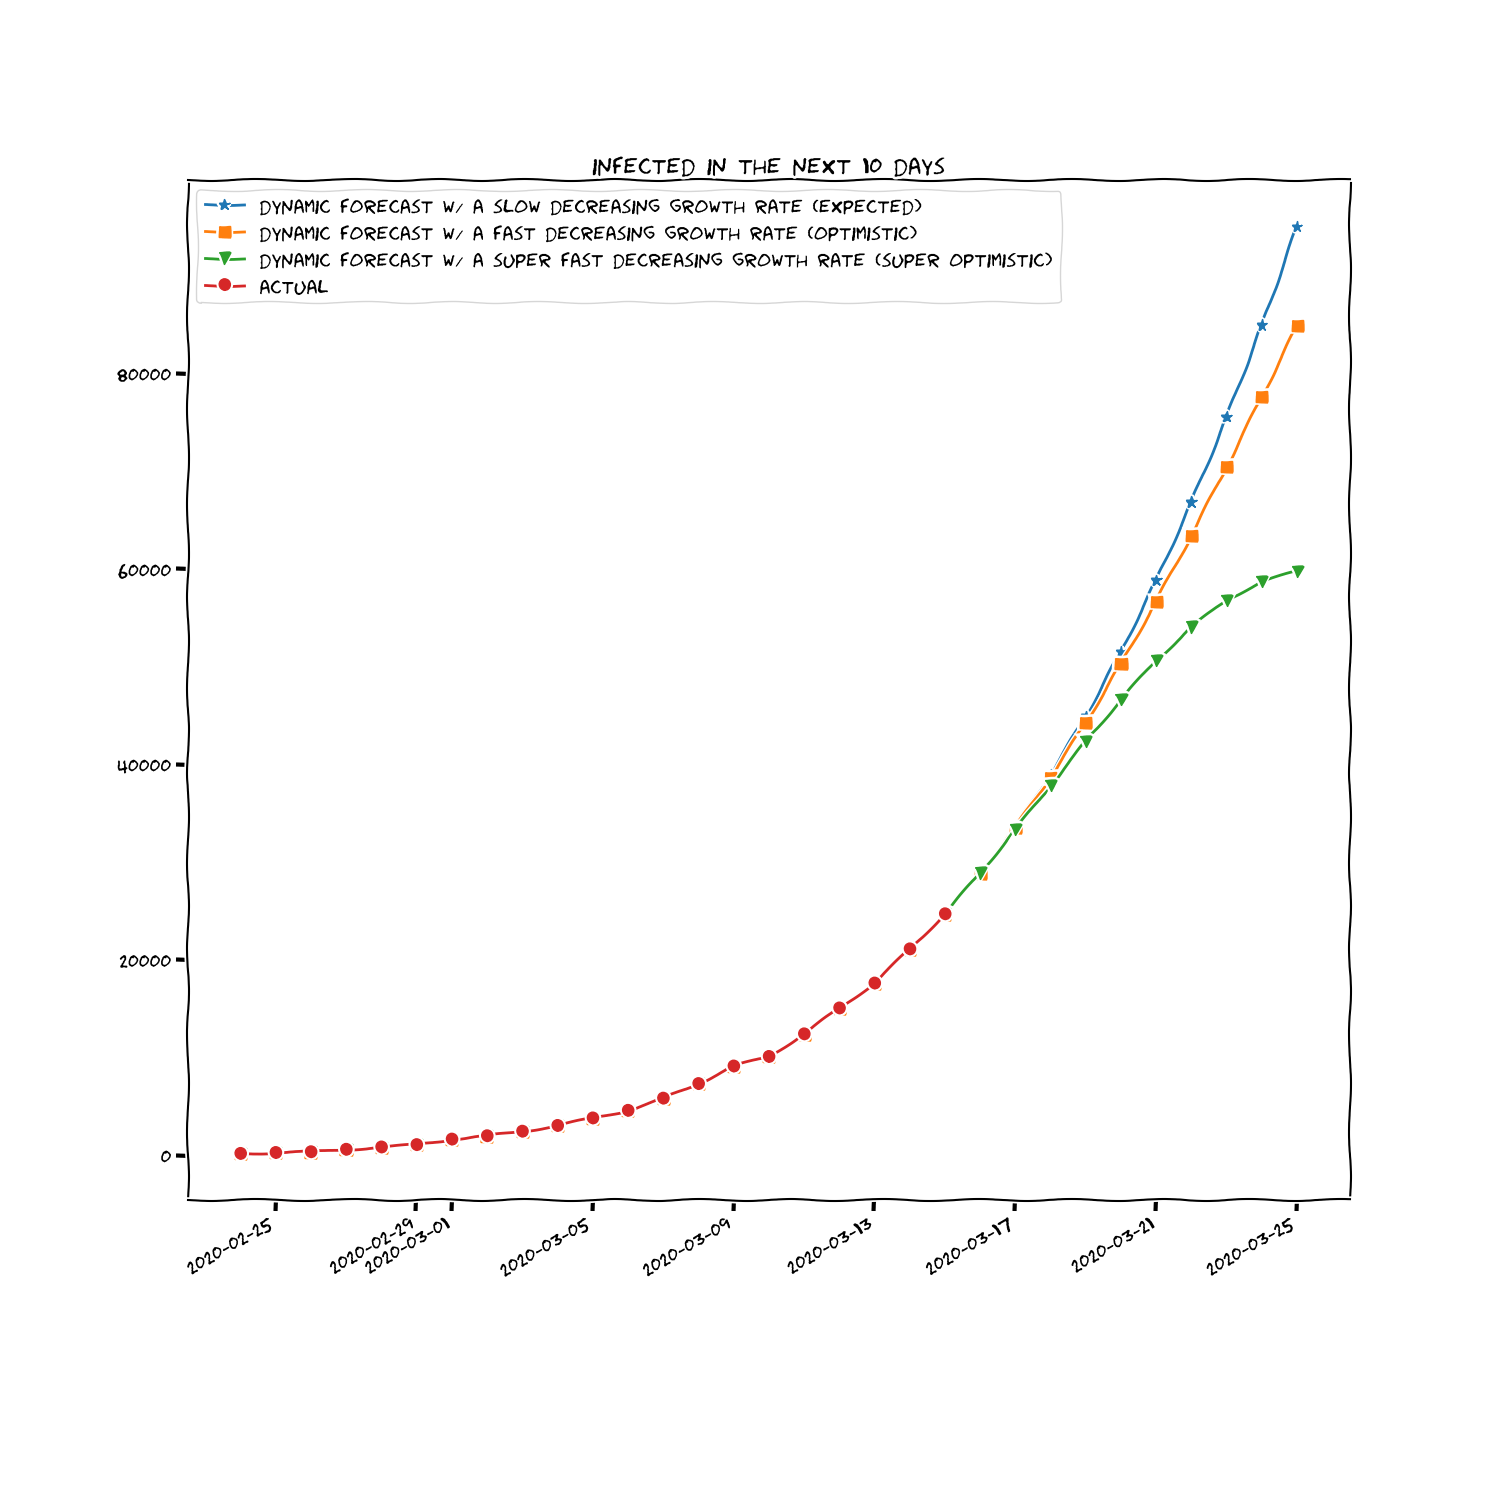
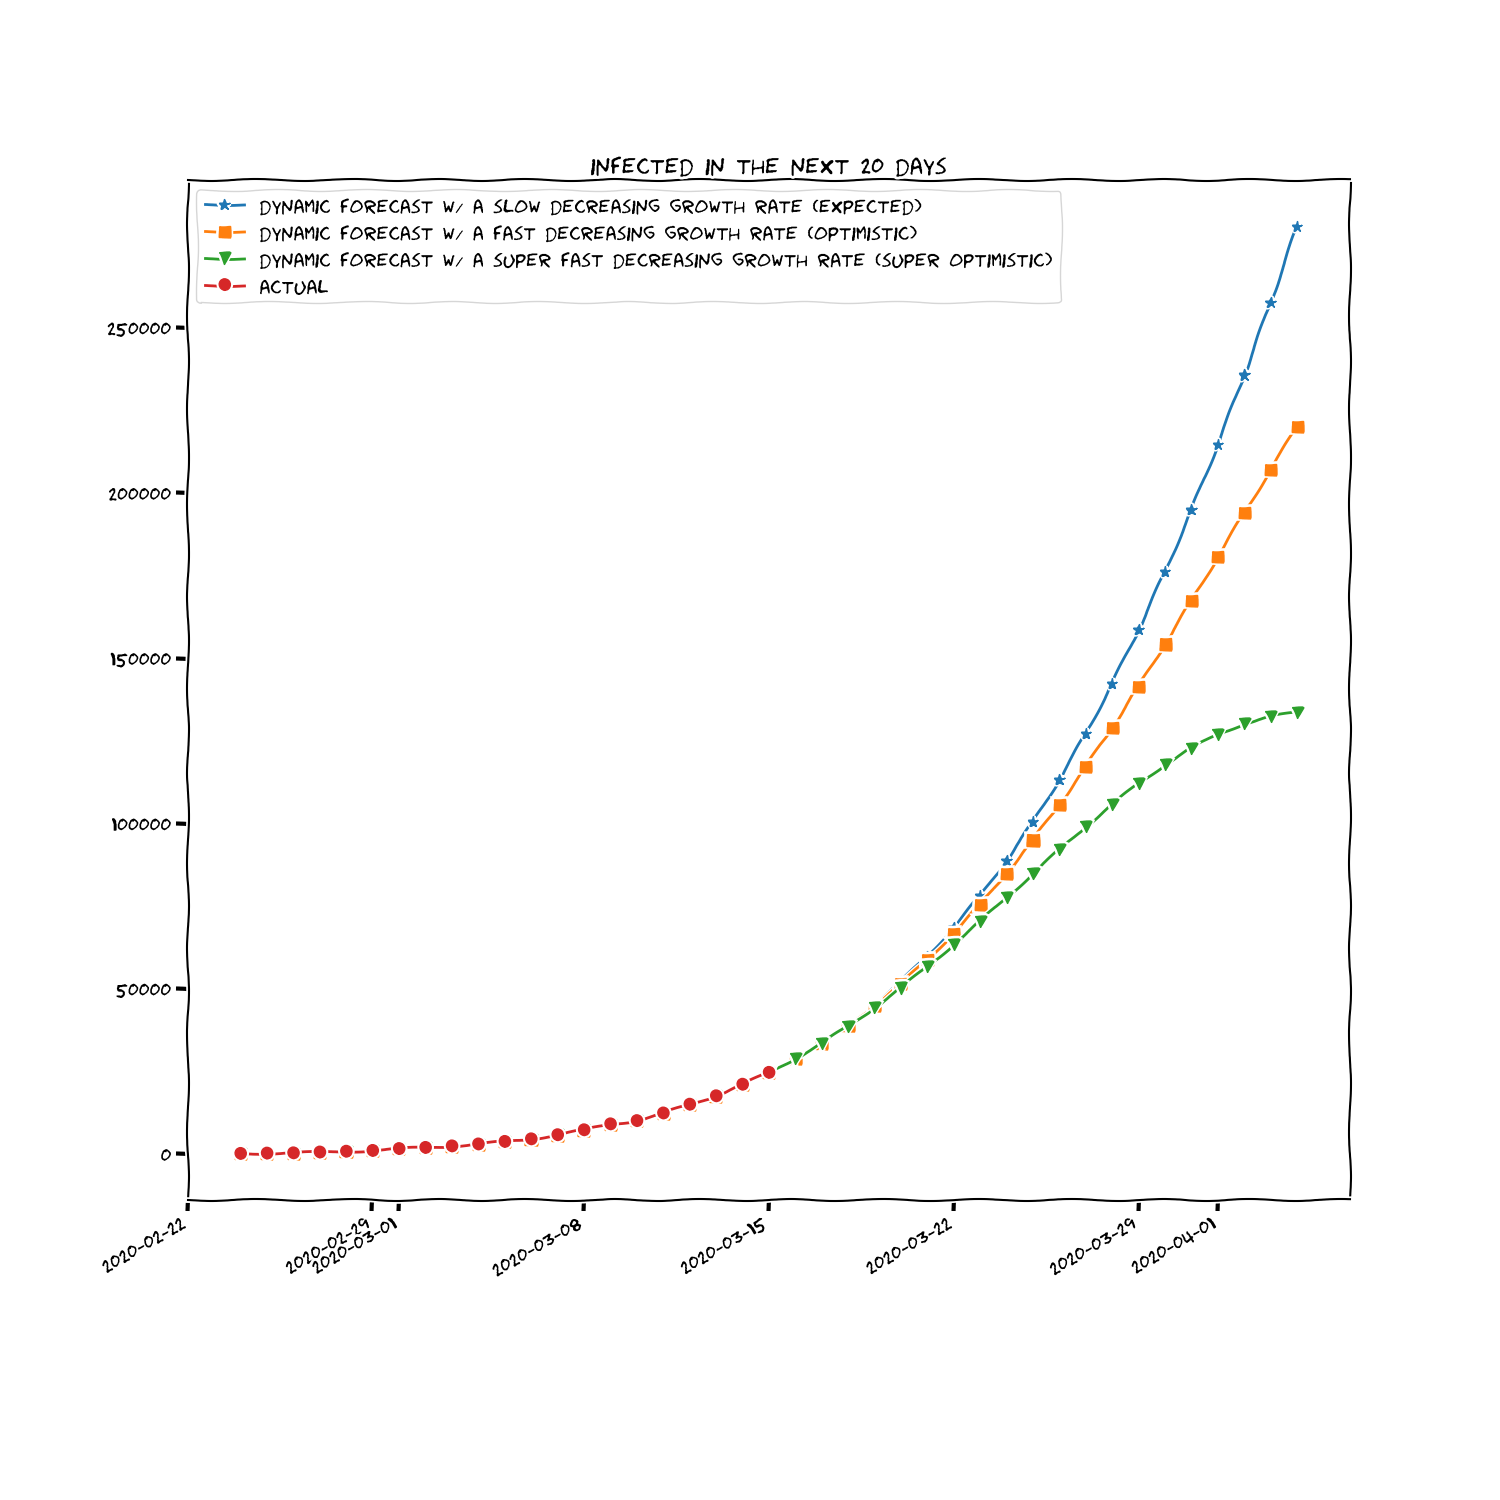
:exclamation: adjust decreasing growth rate

diff --git a/main.py b/main.py
@@ -67,14 +67,17 @@ if __name__ == '__main__':
     infected_dyn_forecast_super_optimistic = infected_list.copy()
     dates_dyn_forecast = dates.copy()
 
-    for i in range(10):
+    N = 20
+    for i in range(N):
         infected_dyn_forecast.append(
-            infected_dyn_forecast[-1] * (1 + growth_rate[-1] - growth_rate[-1] / 30 * i))
+            infected_dyn_forecast[-1] * (1 + growth_rate[-1] - growth_rate[-1] / (N * 2) * i))
         infected_dyn_forecast_optimistic.append(
-            infected_dyn_forecast_optimistic[-1] * (1 + growth_rate[-1] - growth_rate[-1] / 20 * i))
+            infected_dyn_forecast_optimistic[-1] * (1 + growth_rate[-1] - growth_rate[-1] / (N *
+                                                                                             1.5) *
+                                                    i))
         infected_dyn_forecast_super_optimistic.append(
             infected_dyn_forecast_super_optimistic[-1] * (
-                    1 + growth_rate[-1] - growth_rate[-1] / 10 * i))
+                    1 + growth_rate[-1] - growth_rate[-1] / N * i))
 
         dates_dyn_forecast.append(dates_dyn_forecast[-1] + timedelta(days=1))
 
@@ -223,7 +226,7 @@ if __name__ == '__main__':
                 label='dynamic forecast w/ a super fast decreasing growth rate (super optimistic)')
         ax.plot(dates, infected, 'o-', label='actual')
 
-        ax.set_title(f'infected in the next 10 days')
+        ax.set_title(f'infected in the next {N} days')
         ax.legend(loc='upper left')
 
         plt.savefig('report/dynamic_forecast.png')

diff --git a/report/report.md b/report/report.md
@@ -41,15 +41,15 @@ after 3 days | after 5 days | after 10 days
 ##### Dynamic forecast with a slow decreasing growth rate
 after 3 days | after 5 days | after 10 days
 :---: | :---: | :---:
-*39030* |*51607* |*95109*
+*142448* |*176275* |*280747*
 ##### Dynamic forecast with a fast decreasing growth rate
 after 3 days | after 5 days | after 10 days
 :---: | :---: | :---:
-*38745* |*50351* |*84933*
+*129182* |*154418* |*220145*
 ##### Dynamic forecast with a super fast decreasing growth rate
 after 3 days | after 5 days | after 10 days
 :---: | :---: | :---:
-*37896* |*46713* |*59799*
+*105906* |*117907* |*133650*
 
 
 ![dynamic_forecast][dynamic_forecast]
